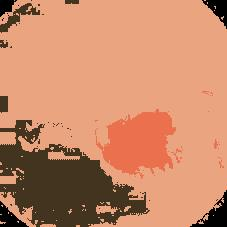
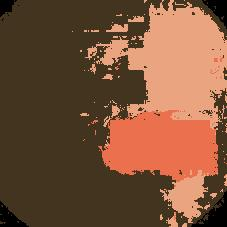
fixing some imagex SVM 2

diff --git a/SVM_classification.py b/SVM_classification.py
@@ -1540,42 +1540,43 @@ import os
 #
 # supervised_41 = supervised
 # imageio.imwrite('./images/41_SVM.jpg',palette[supervised])
-#42---------------------------------------------------------------------------------------------
-classes = {'wall': 0, 'polyp': 1, 'dirt': 2, 'dark': 3, 'hole': 4}
-n_classes = len(classes)
-palette = np.uint8([[234, 164, 128], [234, 112, 78], [234, 207, 79], [0, 0, 0], [67,52,31]])
-
-img = io.imread('images/42.jpg')
-img2 = img
-rows, cols, bands = img.shape
-
-
-X = img.reshape(rows*cols, bands)
-kmeans = KMeans(n_clusters=n_classes, random_state=0).fit(X)
-
-supervised = n_classes*np.ones(shape=(rows, cols), dtype=np.int)
-supervised[125:165, 110:165] = classes['polyp']
-supervised[15:60, 20:210] = classes['wall']
-#supervised[90:115, 85:115] = classes['dirt']
-supervised[160:205, 25:100] = classes['hole']
-supervised[0:12, 0:12] = classes['dark']
-
-y = supervised.ravel()
-train = np.flatnonzero(supervised < n_classes)
-test = np.flatnonzero(supervised == n_classes)
-
-clf = SVC()
-clf.fit(X[train], y[train])
-y[test] = clf.predict(X[test])
-supervised = y.reshape(rows, cols)
-#io.imshow(palette[supervised])
-plt.imshow(img2)
-plt.show()
-plt.imshow(palette[supervised], cmap=plt.cm.binary)
-plt.show()
-
-supervised_42 = supervised
-imageio.imwrite('./images/42_SVM.jpg',palette[supervised])
+# #42---------------------------------------------------------------------------------------------
+# classes = {'wall': 0, 'polyp': 1, 'dirt': 2, 'dark': 3, 'hole': 4}
+# n_classes = len(classes)
+# palette = np.uint8([[234, 164, 128], [234, 112, 78], [234, 207, 79], [0, 0, 0], [67,52,31]])
+#
+# img = io.imread('images/42.jpg')
+# img2 = img
+# rows, cols, bands = img.shape
+#
+#
+# X = img.reshape(rows*cols, bands)
+# kmeans = KMeans(n_clusters=n_classes, random_state=0).fit(X)
+#
+# supervised = n_classes*np.ones(shape=(rows, cols), dtype=np.int)
+# supervised[120:170, 110:210] = classes['polyp']
+# supervised[15:110, 150:210] = classes['wall']
+# #supervised[90:115, 85:115] = classes['dirt']
+# supervised[40:180, 0:80] = classes['hole']
+# supervised[175:227, 30:160] = classes['hole']
+# supervised[0:12, 0:12] = classes['dark']
+#
+# y = supervised.ravel()
+# train = np.flatnonzero(supervised < n_classes)
+# test = np.flatnonzero(supervised == n_classes)
+#
+# clf = SVC()
+# clf.fit(X[train], y[train])
+# y[test] = clf.predict(X[test])
+# supervised = y.reshape(rows, cols)
+# #io.imshow(palette[supervised])
+# plt.imshow(img2)
+# plt.show()
+# plt.imshow(palette[supervised], cmap=plt.cm.binary)
+# plt.show()
+#
+# supervised_42 = supervised
+# imageio.imwrite('./images/42_SVM.jpg',palette[supervised])
 # #43---------------------------------------------------------------------------------------------
 # classes = {'wall': 0, 'polyp': 1, 'dirt': 2, 'dark': 3, 'hole': 4}
 # n_classes = len(classes)
@@ -1590,8 +1591,13 @@ imageio.imwrite('./images/42_SVM.jpg',palette[supervised])
 # kmeans = KMeans(n_clusters=n_classes, random_state=0).fit(X)
 #
 # supervised = n_classes*np.ones(shape=(rows, cols), dtype=np.int)
-# #supervised[125:165, 110:165] = classes['polyp']
-# supervised[20:60, 10:100] = classes['wall']
+# supervised[0:105, 150:195] = classes['polyp']
+# supervised[75:120, 125:165] = classes['polyp']
+# supervised[10:70, 170:215] = classes['polyp']
+# supervised[62:75, 135:155] = classes['polyp']
+# supervised[15:75, 0:130] = classes['wall']
+# supervised[50:210, 0:50] = classes['wall']
+# supervised[145:227, 145:200] = classes['wall']
 # #supervised[90:115, 85:115] = classes['dirt']
 # supervised[140:175, 75:130] = classes['hole']
 # supervised[105:130, 95:118] = classes['hole']
@@ -1628,8 +1634,8 @@ imageio.imwrite('./images/42_SVM.jpg',palette[supervised])
 # kmeans = KMeans(n_clusters=n_classes, random_state=0).fit(X)
 #
 # supervised = n_classes*np.ones(shape=(rows, cols), dtype=np.int)
-# supervised[125:160, 80:128] = classes['polyp']
-# supervised[215:227, 50:190] = classes['wall']
+# supervised[105:160, 75:160] = classes['polyp']
+# supervised[200:227, 30:190] = classes['wall']
 # #supervised[90:115, 85:115] = classes['dirt']
 # supervised[25:80, 30:190] = classes['hole']
 # supervised[75:190, 15:65] = classes['hole']
@@ -1651,44 +1657,42 @@ imageio.imwrite('./images/42_SVM.jpg',palette[supervised])
 #
 # supervised_44 = supervised
 # imageio.imwrite('./images/44_SVM.jpg',palette[supervised])
-# #45---------------------------------------------------------------------------------------------
-# classes = {'wall': 0, 'polyp': 1, 'dirt': 2, 'dark': 3, 'hole': 4}
-# n_classes = len(classes)
-# palette = np.uint8([[234, 164, 128], [234, 112, 78], [234, 207, 79], [0, 0, 0], [67,52,31]])
-#
-# img = io.imread('images/45.jpg')
-# img2 = img
-# rows, cols, bands = img.shape
-#
-#
-# X = img.reshape(rows*cols, bands)
-# kmeans = KMeans(n_clusters=n_classes, random_state=0).fit(X)
-#
-# supervised = n_classes*np.ones(shape=(rows, cols), dtype=np.int)
-# supervised[140:190, 110:170] = classes['polyp']
-# supervised[50:175, 0:75] = classes['wall']
-# supervised[218:227, 50:120] = classes['wall']
-# supervised[80:115, 165:190] = classes['wall']
-# #supervised[90:115, 85:115] = classes['dirt']
-# #supervised[25:80, 30:190] = classes['hole']
-# supervised[0:12, 0:12] = classes['dark']
-#
-# y = supervised.ravel()
-# train = np.flatnonzero(supervised < n_classes)
-# test = np.flatnonzero(supervised == n_classes)
-#
-# clf = SVC()
-# clf.fit(X[train], y[train])
-# y[test] = clf.predict(X[test])
-# supervised = y.reshape(rows, cols)
-# #io.imshow(palette[supervised])
-# plt.imshow(img2)
-# plt.show()
-# plt.imshow(palette[supervised], cmap=plt.cm.binary)
-# plt.show()
-#
-# supervised_45 = supervised
-# imageio.imwrite('./images/45_SVM.jpg',palette[supervised])
+#45---------------------------------------------------------------------------------------------
+classes = {'wall': 0, 'polyp': 1, 'dirt': 2, 'dark': 3, 'hole': 4}
+n_classes = len(classes)
+palette = np.uint8([[234, 164, 128], [234, 112, 78], [234, 207, 79], [0, 0, 0], [67,52,31]])
+
+img = io.imread('images/45.jpg')
+img2 = img
+rows, cols, bands = img.shape
+
+
+X = img.reshape(rows*cols, bands)
+kmeans = KMeans(n_clusters=n_classes, random_state=0).fit(X)
+
+supervised = n_classes*np.ones(shape=(rows, cols), dtype=np.int)
+supervised[135:190, 90:175] = classes['polyp']
+supervised[25:120, 0:200] = classes['wall']
+#supervised[90:115, 85:115] = classes['dirt']
+supervised[175:210, 40:75] = classes['hole']
+supervised[0:12, 0:12] = classes['dark']
+
+y = supervised.ravel()
+train = np.flatnonzero(supervised < n_classes)
+test = np.flatnonzero(supervised == n_classes)
+
+clf = SVC()
+clf.fit(X[train], y[train])
+y[test] = clf.predict(X[test])
+supervised = y.reshape(rows, cols)
+#io.imshow(palette[supervised])
+plt.imshow(img2)
+plt.show()
+plt.imshow(palette[supervised], cmap=plt.cm.binary)
+plt.show()
+
+supervised_45 = supervised
+imageio.imwrite('./images/45_SVM.jpg',palette[supervised])
 # #46---------------------------------------------------------------------------------------------
 # classes = {'wall': 0, 'polyp': 1, 'dirt': 2, 'dark': 3, 'hole': 4}
 # n_classes = len(classes)
